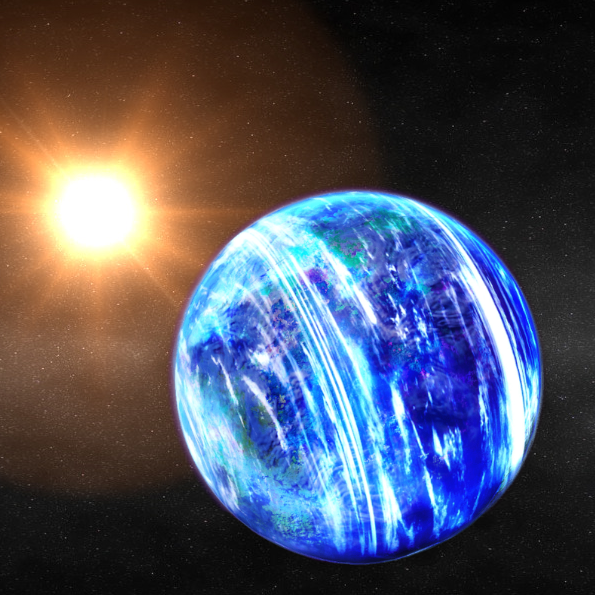
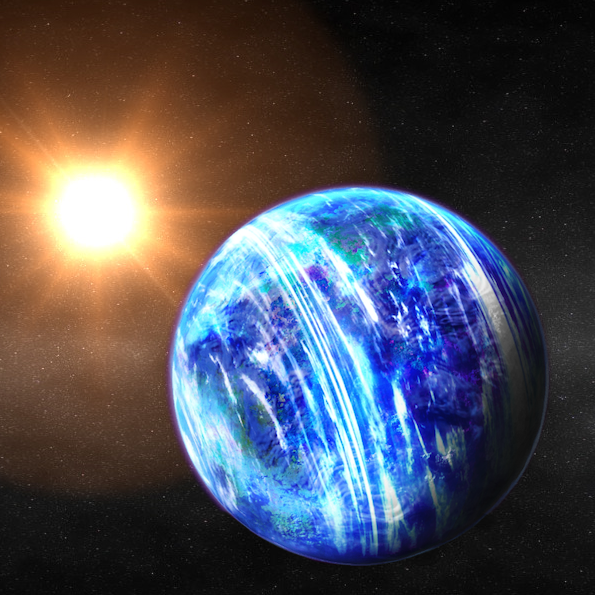
info: Updated the README and thumbnail

Changed region(s): [[0.2723, 0.3025, 0.9378, 0.9681]]

diff --git a/README.md b/README.md
@@ -1,25 +1,15 @@
-<div align="center">
-    <a href="https://github.com/notnotmelon/maraxsis">
-    <picture>
-        <source media="(prefers-color-scheme: dark)" srcset="https://github.com/user-attachments/assets/52a312e5-d7ec-4834-a7f1-2fb714c6e957">
-        <img alt="Rivets 🔩 - the Factorio mod loader" width="60%" style="max-width: 600px" src=".github/assets/logo-horizontal.png">
-    </picture>
-    </a>
-
 [![Release](https://github.com/notnotmelon/maraxsis/actions/workflows/release.yml/badge.svg?branch=main)](https://github.com/notnotmelon/maraxsis/actions/workflows/release.yml) [![Discord](https://img.shields.io/discord/1260754935952314418?color=lightblue&label=Community%20Chat&logo=Discord&logoColor=aqua)](https://discord.gg/xRYEZYz5WR) [![Bug reports](https://img.shields.io/github/issues/notnotmelon/maraxsis?label=Bug%20Reports)](https://github.com/notnotmelon/maraxsis/issues) [![factorio.com](https://img.shields.io/badge/dynamic/json?color=orange&label=Factorio&query=downloads_count&suffix=%20downloads&url=https%3A%2F%2Fmods.factorio.com%2Fapi%2Fmods%2Fmaraxsis)](https://mods.factorio.com/mod/maraxsis)
-
-</div>
 
 ---
 
 ### Introduction
 
-In 2016, we were first introduced to Nauvis—Factorio's first planet. It revolutionized the automation genre, pushing the limits of production to new heights not seen in other games. Eight years later, Factorio 2.0 expands the universe further, adding Vulcanus, Fulgora, Gleba, and Aquilo—each bringing unique mechanics that redefine factory design.
+In 2016, we were first introduced to Nauvis—Factorio's first planet. It revolutionized the automation genre, pushing the limits of production to new heights not seen in other games. Eight years later, Factorio Space Age expands the universe further, adding Vulcanus, Fulgora, Gleba, and Aquilo—each bringing unique mechanics that redefine factory design.
 
 - Vulcanus: A world where coal is the only resource. Craft rocket parts from freely available sulfuric acid and extract precious materials from molten lava.
 - Fulgora: Experience the challenge of limited space on scattered islands. Reverse the recipe tree and deconstruct advanced products into their basic components.
 - Gleba: Experiment with the time dimension in a world where every item is rapidly transforming into something else.
-- Aquilo: Develop futurist technologies on a frozen, desolate world.
+- Aquilo: ???
 
 These new worlds are compelling, but one question still lingers: where do we go from here?
 
@@ -29,7 +19,7 @@ These new worlds are compelling, but one question still lingers: where do we go 
 
 Let me introduce this pristine, submerged world. Far away from the sun, this planet paradoxically maintains a comfortable temperature through a runaway greenhouse effect. Preliminary surface scans show an average temperature of 101°F. It's not too hot and not too cold, the perfect Goldilocks zone for liquid water. Maybe even too perfect...
 
-![](https://files.catbox.moe/honzmi.png)
+![](https://files.catbox.moe/wwq54g.png)
 
 Maraxsis is 100% covered by deep ocean. There is no land on the entire planet meaning you'll have to invest in aquatic technologies such as submarines, torpedos, fiber optic cables, and submerged pressure domes. In terms of progression, Maraxsis is unlocked at the same point as Aquilo. This means the mod can be seamlessly added to a finished Space Age save.
 
@@ -88,7 +78,9 @@ Fiber optic cables function similarly to pipes, as they are 1x1 entities that co
 
 As you explore Maraxsis, you’ll quickly discover that many of your standard machines are ineffective underwater. You are able to research new designs that function underwater however many recipes are still impossible. In these situations, constructing high-pressure domes becomes essential.
 
-These specialized structures are designed to withstand the immense pressures of Maraxsis’ depths. However, maintaining equilibrium inside the domes requires continuous pumping of atmospheric gases into ballast tanks.
+![](https://files.catbox.moe/zi790b.mp4)
+
+These specialized structures are designed to withstand the immense pressures of Maraxsis’ depths. However, maintaining equilibrium inside the domes requires continuous supply of atmospheric gases into ballast pumps.
 
 ---
 
@@ -132,7 +124,7 @@ Maraxsis would not be possible without the help of these amazing, fantastic, inc
 - **License**: [TurboSquid 3D Model License](https://blog.turbosquid.com/turbosquid-3d-model-license/)
 - **Changes**: Yes. Added animations via Blender and converted to PNG.
 
-#### Advanced Furnace & Singularity Lab
+#### Advanced Furnace, Singularity Lab, & Others
 
 - **Creator**: Krastor and Linver
 - **Source**: [Krastorio 2](https://mods.factorio.com/mod/Krastorio2)
